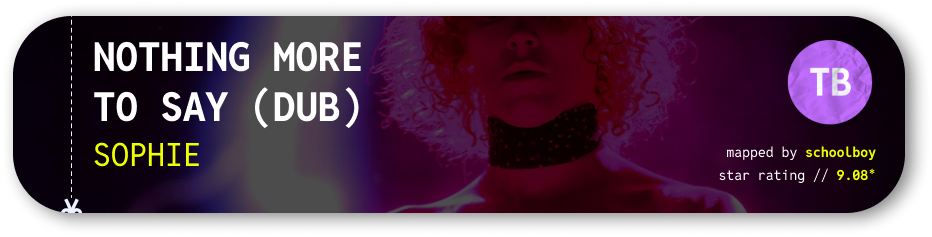
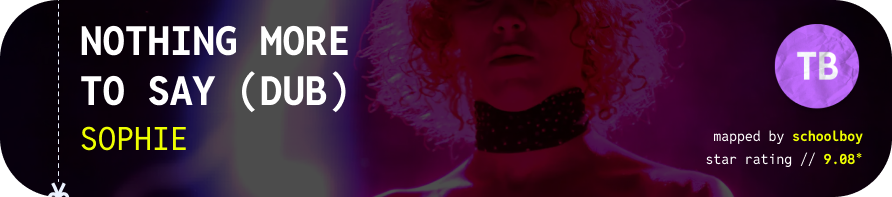
Create tiebreaker card

diff --git a/mappool/style.css b/mappool/style.css
@@ -181,6 +181,11 @@ body {
     overflow: hidden;
     box-shadow: 7px 4px 20px 0px rgba(0, 0, 0, 0.5);
 }
+.tb-map-card-container {
+    position: relative;
+    width: 892px;
+    height: 197px;
+}
 
 /* Map details */
 .map-details {
@@ -189,6 +194,9 @@ body {
     left: 80px;
     display: flex;
     flex-direction: column;
+}
+.tb-map-details {
+    top: 24px;
 }
 /* Map Card Background */
 .map-card-background {
@@ -203,6 +211,14 @@ body {
     background-position: center;
     opacity: 0.3;
 }
+.tb-map-card-background {
+    position: absolute;
+    top: 0;
+    left: 0;
+    width: inherit;
+    height: inherit;
+    border-radius: 59px;
+}
 /* Map Song Name */
 .song-name {
     font-size: 28px;
@@ -214,12 +230,19 @@ body {
     overflow: hidden;
     text-overflow: ellipsis;
 }
+.tb-song-name {
+    font-size: 40px;
+}
 /* Map Song Artist */
 .song-artist {
     font-size: 20px;
     font-weight: 400;
     line-height: 25px;
     color: var(--colour-lime);
+}
+.tb-song-artist {
+    font-size: 2em;
+    line-height: 2em;
 }
 /* Mod ID */
 .mod-id {
@@ -228,6 +251,15 @@ body {
     left: 567px;
     width: 50px;
     height: 50px;
+    background-color: white;
+    border-radius: 50%;
+}
+.tb-mod-id {
+    position: absolute; 
+    top: 24px;
+    left: 771px;
+    width: 86px;
+    height: 86px;
     background-color: white;
     border-radius: 50%;
 }
@@ -254,6 +286,10 @@ body {
     color: black;
     opacity: 0.75;
 }
+.tb-mod-text {
+    font-size: 40px;
+    color: white;
+}
 /* Mapper */
 .song-mapper {
     position: absolute;
@@ -262,6 +298,10 @@ body {
     color: white;
     font-size: 14px;
     font-weight: 400;
+}
+.tb-song-mapper {
+    top: 127px;
+    right: 29px;
 }
 .map-detail-lime-bold { 
     font-weight: 700;
@@ -275,6 +315,10 @@ body {
     color: white;
     font-size: 14px;
     font-weight: 400;
+}
+.tb-star-rating {
+    top: 150px;
+    right: 29px;
 }
 /* Map Card Action */
 .map-card-action {
@@ -295,6 +339,14 @@ body {
 .map-card-win-text { left: 20px; }
 .map-card-colour-pink { color: var(--colour-pink); }
 .map-card-colour-blue { color: var(--colour-blue); }
+
+/* Tiebreaker map card */
+#tb-map-card {
+    position: relative;
+    display: flex;
+    justify-content: center;
+    margin-top: 22px;
+}
 
 /* Side Bar */
 .side-bar {

diff --git a/mappool/index.html b/mappool/index.html
@@ -134,7 +134,22 @@
                     </div>
                 </div>
             </div>
-            <div id="tb-map-card"></div>
+            <div id="tb-map-card">
+                <div class="tb-map-card-container">
+                    <img src="static/tb-pick.png">
+                    <div class="tb-map-card-background"></div>
+                    <div class="map-details tb-map-details">
+                        <div class="song-name tb-song-name">NOTHING MORE TO SAY (DUB)</div>
+                        <div class="song-artist tb-song-artist">canoue</div>
+                    </div>
+                    <div class="tb-mod-id mod-id-tb">
+                        <img class="mod-mask" src="static/mask.png">
+                        <div class="mod-text tb-mod-text">TB</div>
+                    </div>
+                    <div class="song-mapper tb-song-mapper">mapped by <span class="map-detail-lime-bold">schoolboy</span></div>
+                    <div class="star-rating tb-star-rating">star rating // <span class="map-detail-lime-bold">9.08*</span></div>
+                </div>
+            </div>
         </div>
     </div>
 
